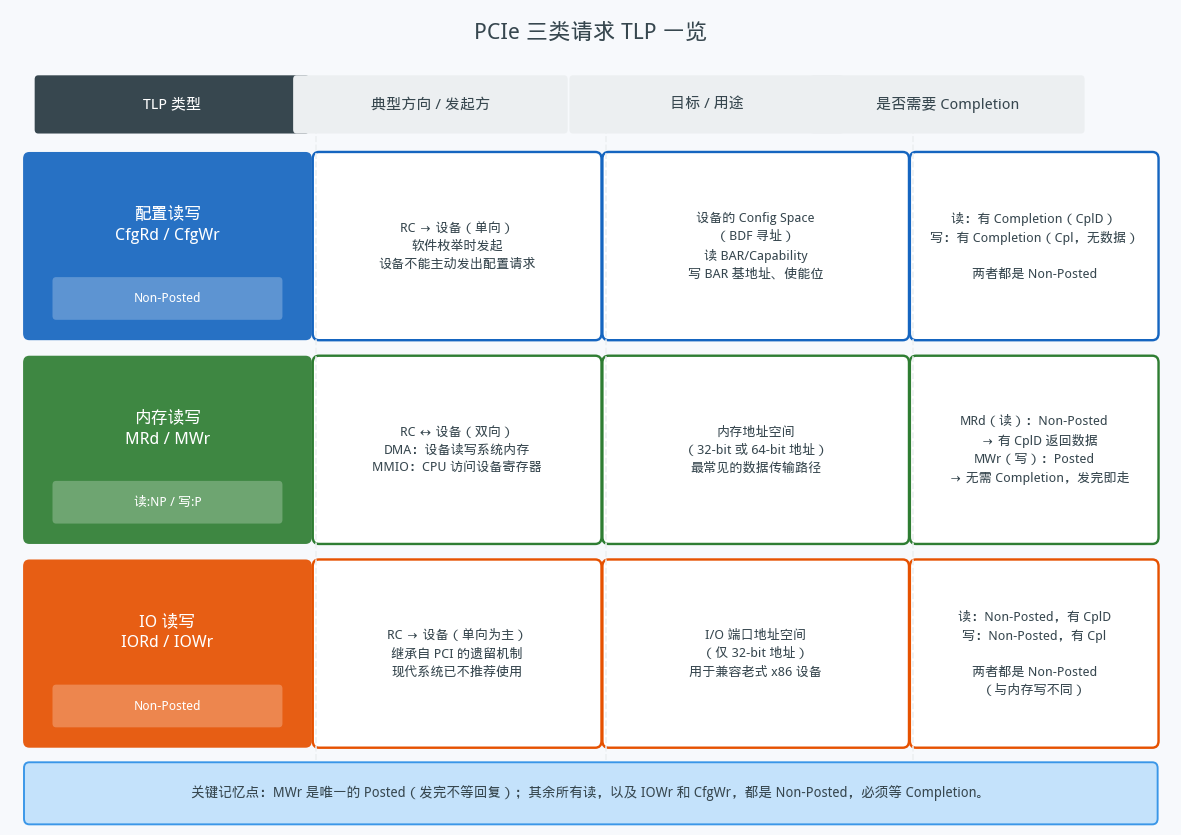
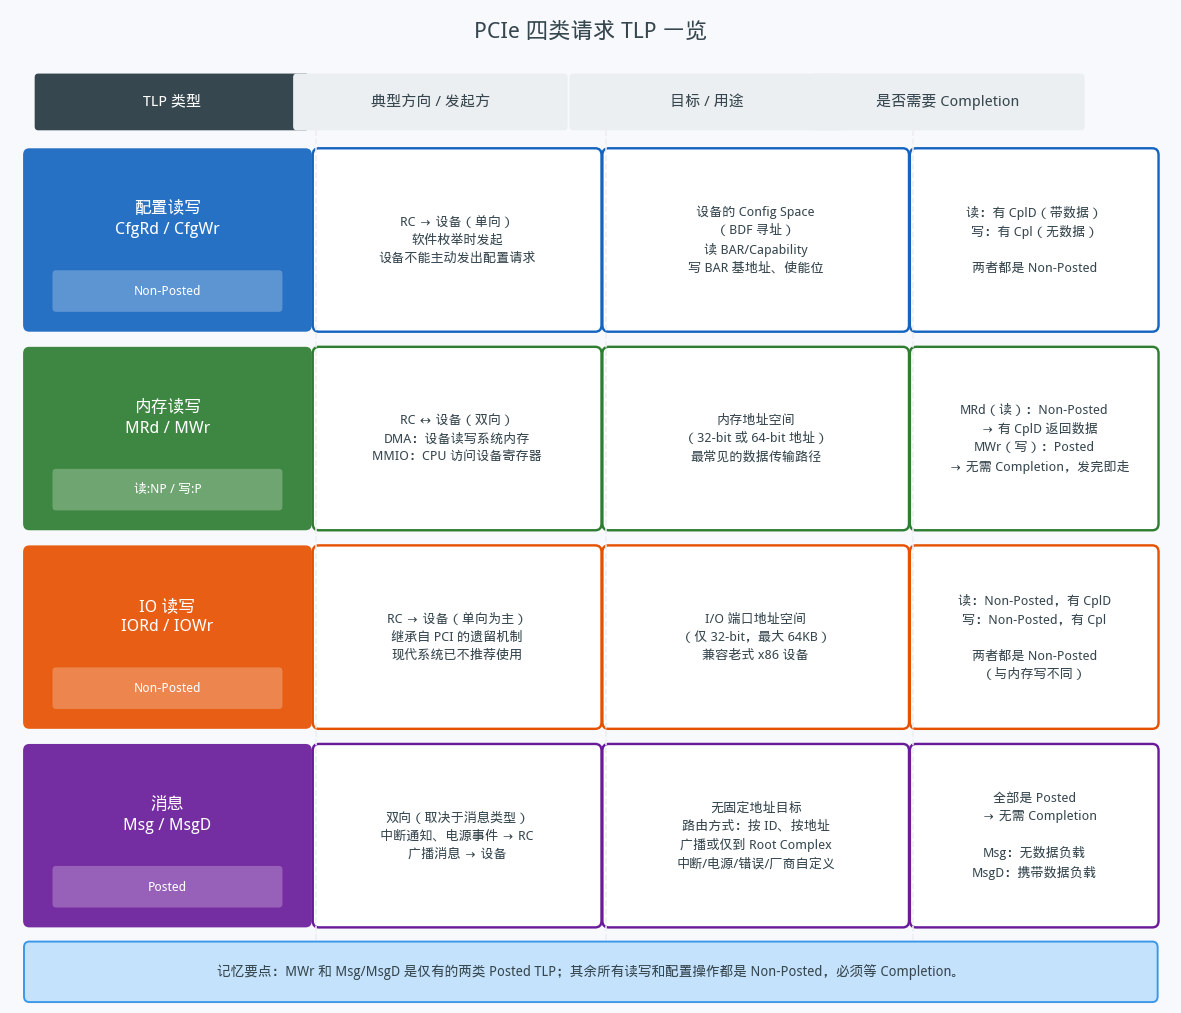
Add Msg/MsgD TLP type: update overview + article

Changed region(s): [[0.0, 0.0623, 1.0, 0.9964], [0.3963, 0.0, 0.5487, 0.0623], [0.5792, 0.0, 0.6097, 0.0623]]

diff --git a/7_7/pcie_tlp_types/pcie_tlp_types_article.md b/7_7/pcie_tlp_types/pcie_tlp_types_article.md
@@ -1,4 +1,4 @@
-## PCIe 三类请求 TLP：配置读写、内存读写、IO 读写
+## PCIe 四类请求 TLP：配置读写、内存读写、IO 读写、消息
 
 ![封面](cover_pcie_tlp_types.png)
 
@@ -6,15 +6,15 @@
 
 ### 导读
 
-PCIe 设备上线之后，软件和硬件之间的所有通信都依赖 TLP（Transaction Layer Packet）。TLP 有很多种，但从"读写什么"的角度来看，最核心的就三类：配置读写、内存读写、IO 读写。搞清楚这三类的区别，就抓住了 PCIe 访问模型的主干。
+PCIe 设备上线之后，软件和硬件之间的所有通信都依赖 TLP（Transaction Layer Packet）。TLP 有很多种，但从"读写什么"的角度来看，最核心的是四类：配置读写、内存读写、IO 读写，以及消息（Message）。搞清楚这四类的区别，就抓住了 PCIe 访问模型的主干。
 
 ---
 
-### 一、三类 TLP 一览
+### 一、四类 TLP 一览
 
 ![PCIe 三类请求 TLP 一览](tlp_overview.png)
 
-三类请求 TLP 的关键区别可以从两个维度来记忆：**访问的是哪个地址空间**，以及**是否需要等待 Completion 回复**。
+四类请求 TLP 的关键区别可以从两个维度来记忆：**访问的是哪个地址空间**，以及**是否需要等待 Completion 回复**。
 
 **配置读写（CfgRd / CfgWr）** 访问的是设备的 Config Space，由软件（操作系统或固件）在枚举阶段发起，目标用 BDF 三元组精确定位。配置读写全部是 Non-Posted——无论读还是写，都必须等 Completion 回来。写的 Completion 不带数据，只是确认"收到了"；读的 Completion 带回请求的寄存器值。
 
@@ -22,7 +22,7 @@ PCIe 设备上线之后，软件和硬件之间的所有通信都依赖 TLP（Tr
 
 **IO 读写（IORd / IOWr）** 是从 PCI 时代继承来的遗留机制，访问 x86 的 I/O 端口地址空间（最多 64KB）。现代 PCIe 设备几乎不再使用这种方式。它的特殊之处在于：**IO 写也是 Non-Posted**，和内存写正好相反——即便是写操作，也要等 Completion 确认。
 
-最容易记混的点在这里：**MWr（内存写）是 PCIe 中唯一的 Posted 写**，其余所有写（IOWr、CfgWr）以及所有读，都是 Non-Posted。
+最容易记混的点在这里：**MWr 和消息（Msg/MsgD）是仅有的两类 Posted TLP**，其余所有写（IOWr、CfgWr）以及所有读，都是 Non-Posted。
 
 ---
 
@@ -40,7 +40,27 @@ PCIe 设备上线之后，软件和硬件之间的所有通信都依赖 TLP（Tr
 
 ---
 
-### 三、内存读写 vs IO 读写
+### 三、消息 TLP（Msg / MsgD）
+
+消息是四类 TLP 里最"杂"的一类——它不对应任何固定的地址空间，而是用来在 RC 和设备之间传递各种控制和通知信号。
+
+**消息全部是 Posted**，不需要 Completion。这合乎逻辑：大多数消息是单向通知，发出去就完事了。Msg 不携带数据负载，MsgD 携带一个数据负载，用于需要附加信息的消息类型。
+
+消息的路由方式比其他三类灵活得多。普通 TLP 靠地址或 BDF 找目标，消息则有多种路由模式：路由到 Root Complex（最常见）、按地址路由、按 Routing ID 路由、广播到所有设备，或只沿链路单向传递。具体路由方式写在 TLP 头部的路由字段里。
+
+消息的用途覆盖了几个关键场景：
+
+**中断通知**：在没有独立中断线的 PCIe 链路上，设备通过发送特定消息来模拟 INTx 中断的断言和取消（Assert_INTx / Deassert_INTx）。现代设备更多用 MSI/MSI-X，但 INTx 消息仍然是兼容路径。
+
+**电源管理**：设备通过发送 PME（Power Management Event）消息通知 RC 自己需要唤醒；整个 PCIe 电源状态机的切换协议有相当一部分依赖消息 TLP 完成。
+
+**错误上报**：当设备检测到可校正或不可校正错误，通过 ERR_COR / ERR_NONFATAL / ERR_FATAL 消息上报给 RC，配合 AER Capability 实现精细的错误处理。
+
+**其他**：热插拔事件通知、Attention Button 按下、厂商自定义消息（Vendor_Defined）等。
+
+消息机制让 PCIe 不需要额外的边带信号线就能处理各种控制事件，**所有"通知"都走同一条串行链路，用 TLP 承载**——这是 PCIe 相比旧总线协议的一个重要设计改进。
+
+### 四、内存读写 vs IO 读写
 
 ![内存读写 vs IO 读写：关键属性对比](mem_io_compare.png)
 
@@ -54,15 +74,17 @@ IO 写是 Non-Posted 这一点值得单独强调。历史上，x86 的 `out` 指
 
 ---
 
-### 四、总结
+### 五、总结
 
-三类 TLP 的核心区别，用一组对比来收尾：
+四类 TLP 的核心区别，用一组对比来收尾：
 
 配置读写（CfgRd/CfgWr）以 BDF 寻址 Config Space，由软件在枚举时使用，读写都是 Non-Posted。**Type 0 直接送达，Type 1 经 Switch 路由**——这两个变体是枚举机制的基础。
 
 内存读写（MRd/MWr）访问内存地址空间，是高性能数据传输的主路径。**MWr 是 Posted（唯一的 Posted 写），MRd 是 Non-Posted**——这个不对称是初学者最需要记牢的点。
 
 IO 读写（IORd/IOWr）是兼容遗留设备的历史机制，**读写都是 Non-Posted**，地址空间只有 64KB，现代设备不再推荐使用。
+
+消息（Msg/MsgD）是无地址目标的通知通道，**全部 Posted**，承载中断、电源、错误等控制事件，路由方式灵活，让 PCIe 不需要额外边带信号就能处理所有控制流。
 
 ---
 